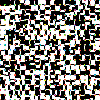
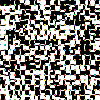
Updated canada.pymy1.png .

diff --git a/canada.py b/canada.py
@@ -28,9 +28,28 @@ outp=np.asarray(outp)
 img = Image.fromarray(outp, 'RGB')
 img.save('my.png')
 moverPieza(outp,18,1,0,0)
-for a in range(1):
+moverPieza(outp,0,16,0,1)
+moverPieza(outp,1,4,0,2)
+moverPieza(outp,1,9,0,3)
+moverPieza(outp,2,8,0,4)
+moverPieza(outp,3,0,0,5)
+moverPieza(outp,4,7,0,6)
+moverPieza(outp,5,3,0,7)
+moverPieza(outp,7,17,0,8)
+moverPieza(outp,8,8,0,9)
+moverPieza(outp,10,1,0,10)
+moverPieza(outp,11,11,0,11)
+moverPieza(outp,12,16,0,12)
+moverPieza(outp,13,6,0,13)
+moverPieza(outp,15,5,0,14)
+moverPieza(outp,16,5,0,15)
+moverPieza(outp,17,4,0,16)
+moverPieza(outp,17,12,0,17)
+moverPieza(outp,18,1,0,18)
+moverPieza(outp,18,10,0,19)
+'''for a in range(1):
     for i in range(1):
-        for j in range(1,2):
+        for j in range(1,20):
             for o in range(i,20):
                 for k in range(j,20):
                     if(i==0):
@@ -48,6 +67,6 @@ for a in range(1):
 
 
 
-
+'''
 img = Image.fromarray(outp, 'RGB')
 img.save('my1.png')
